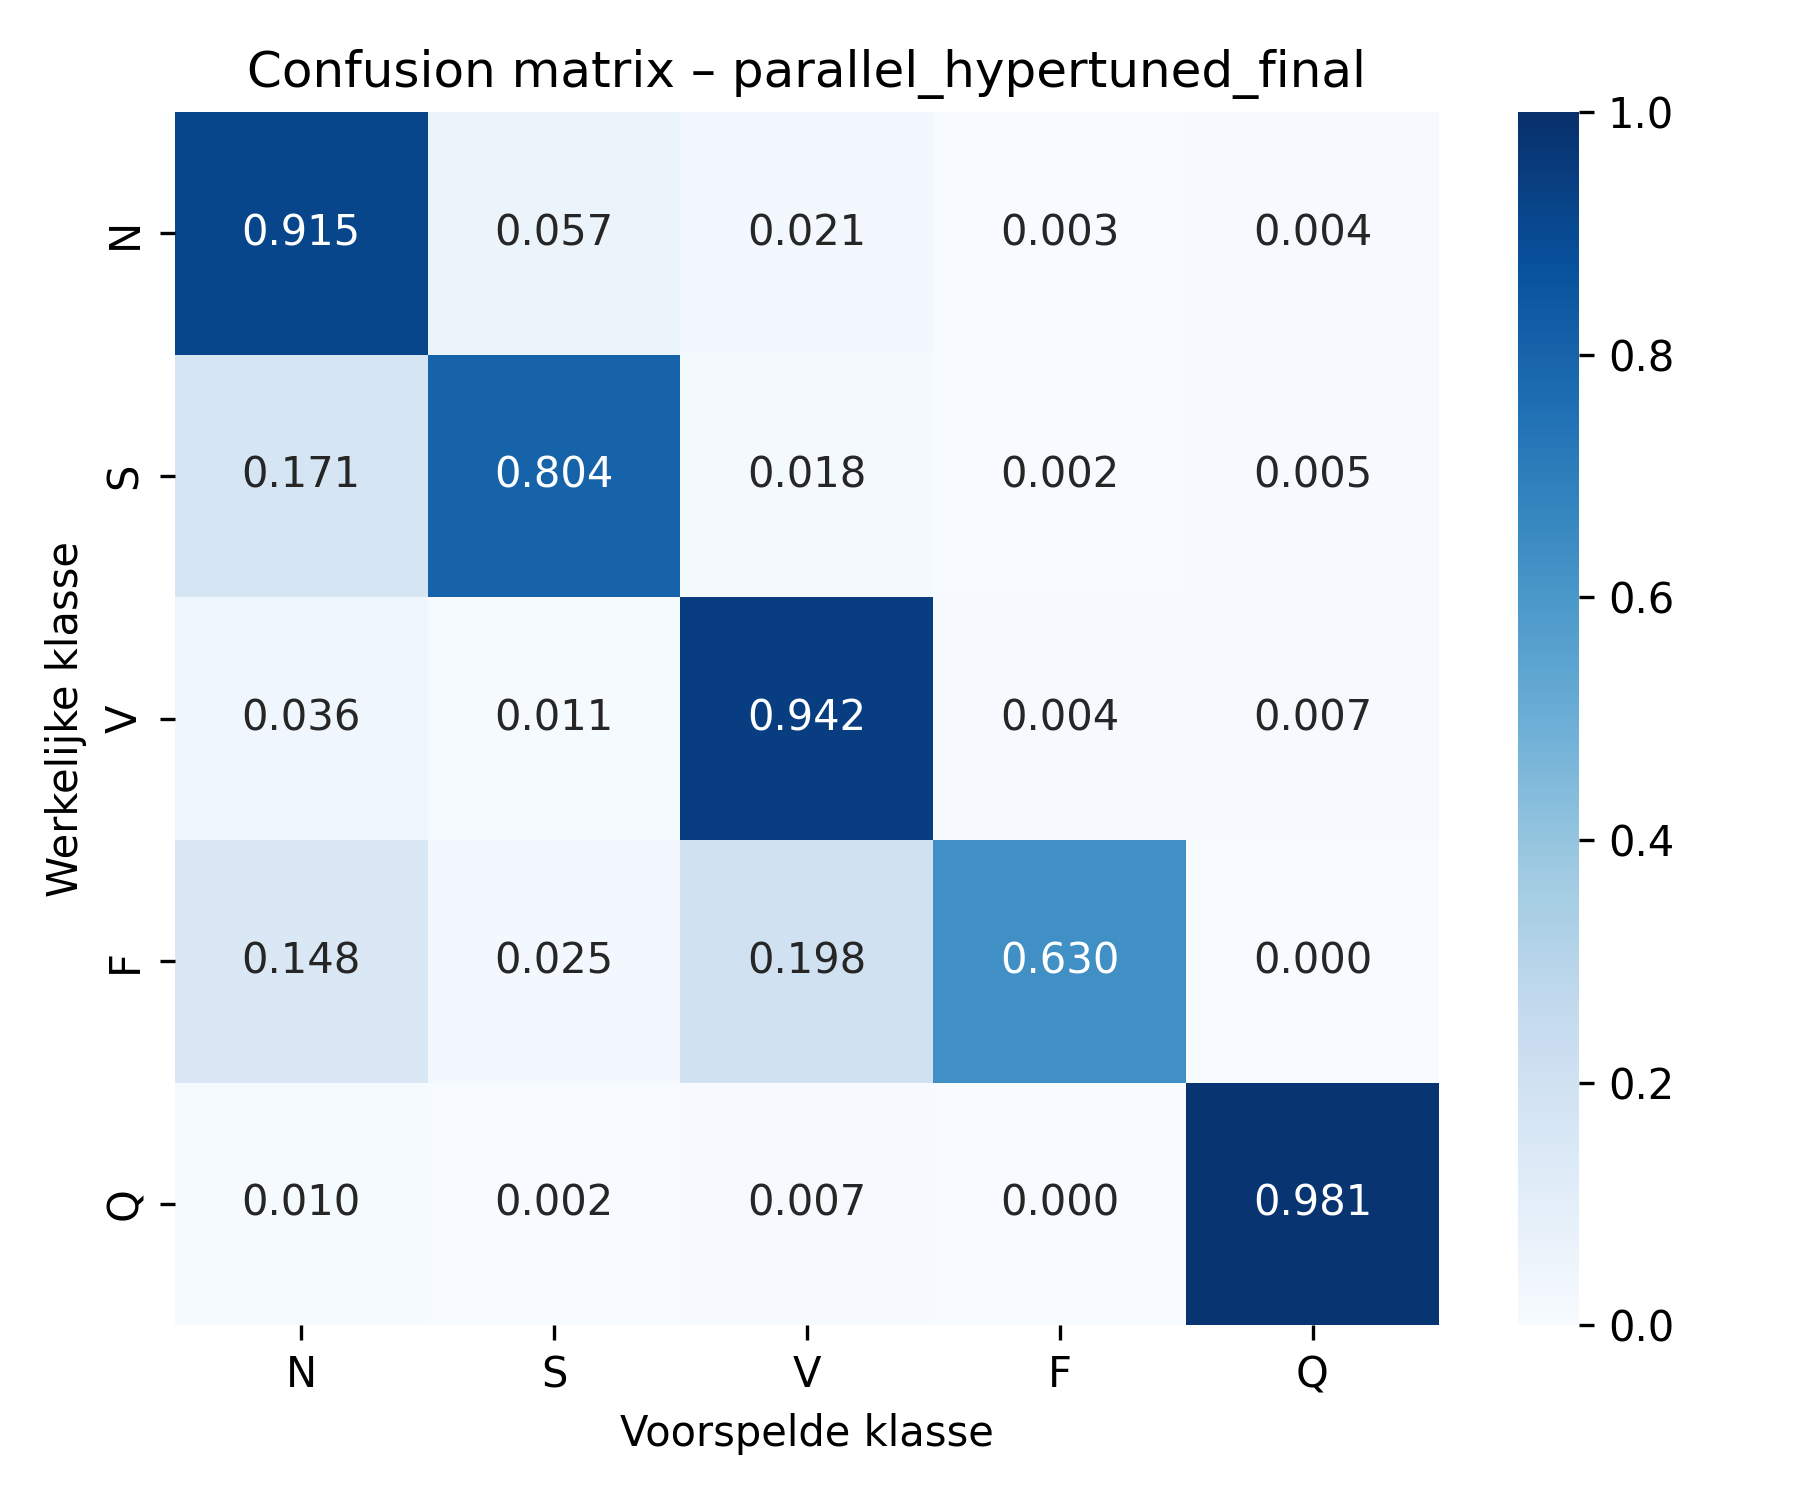
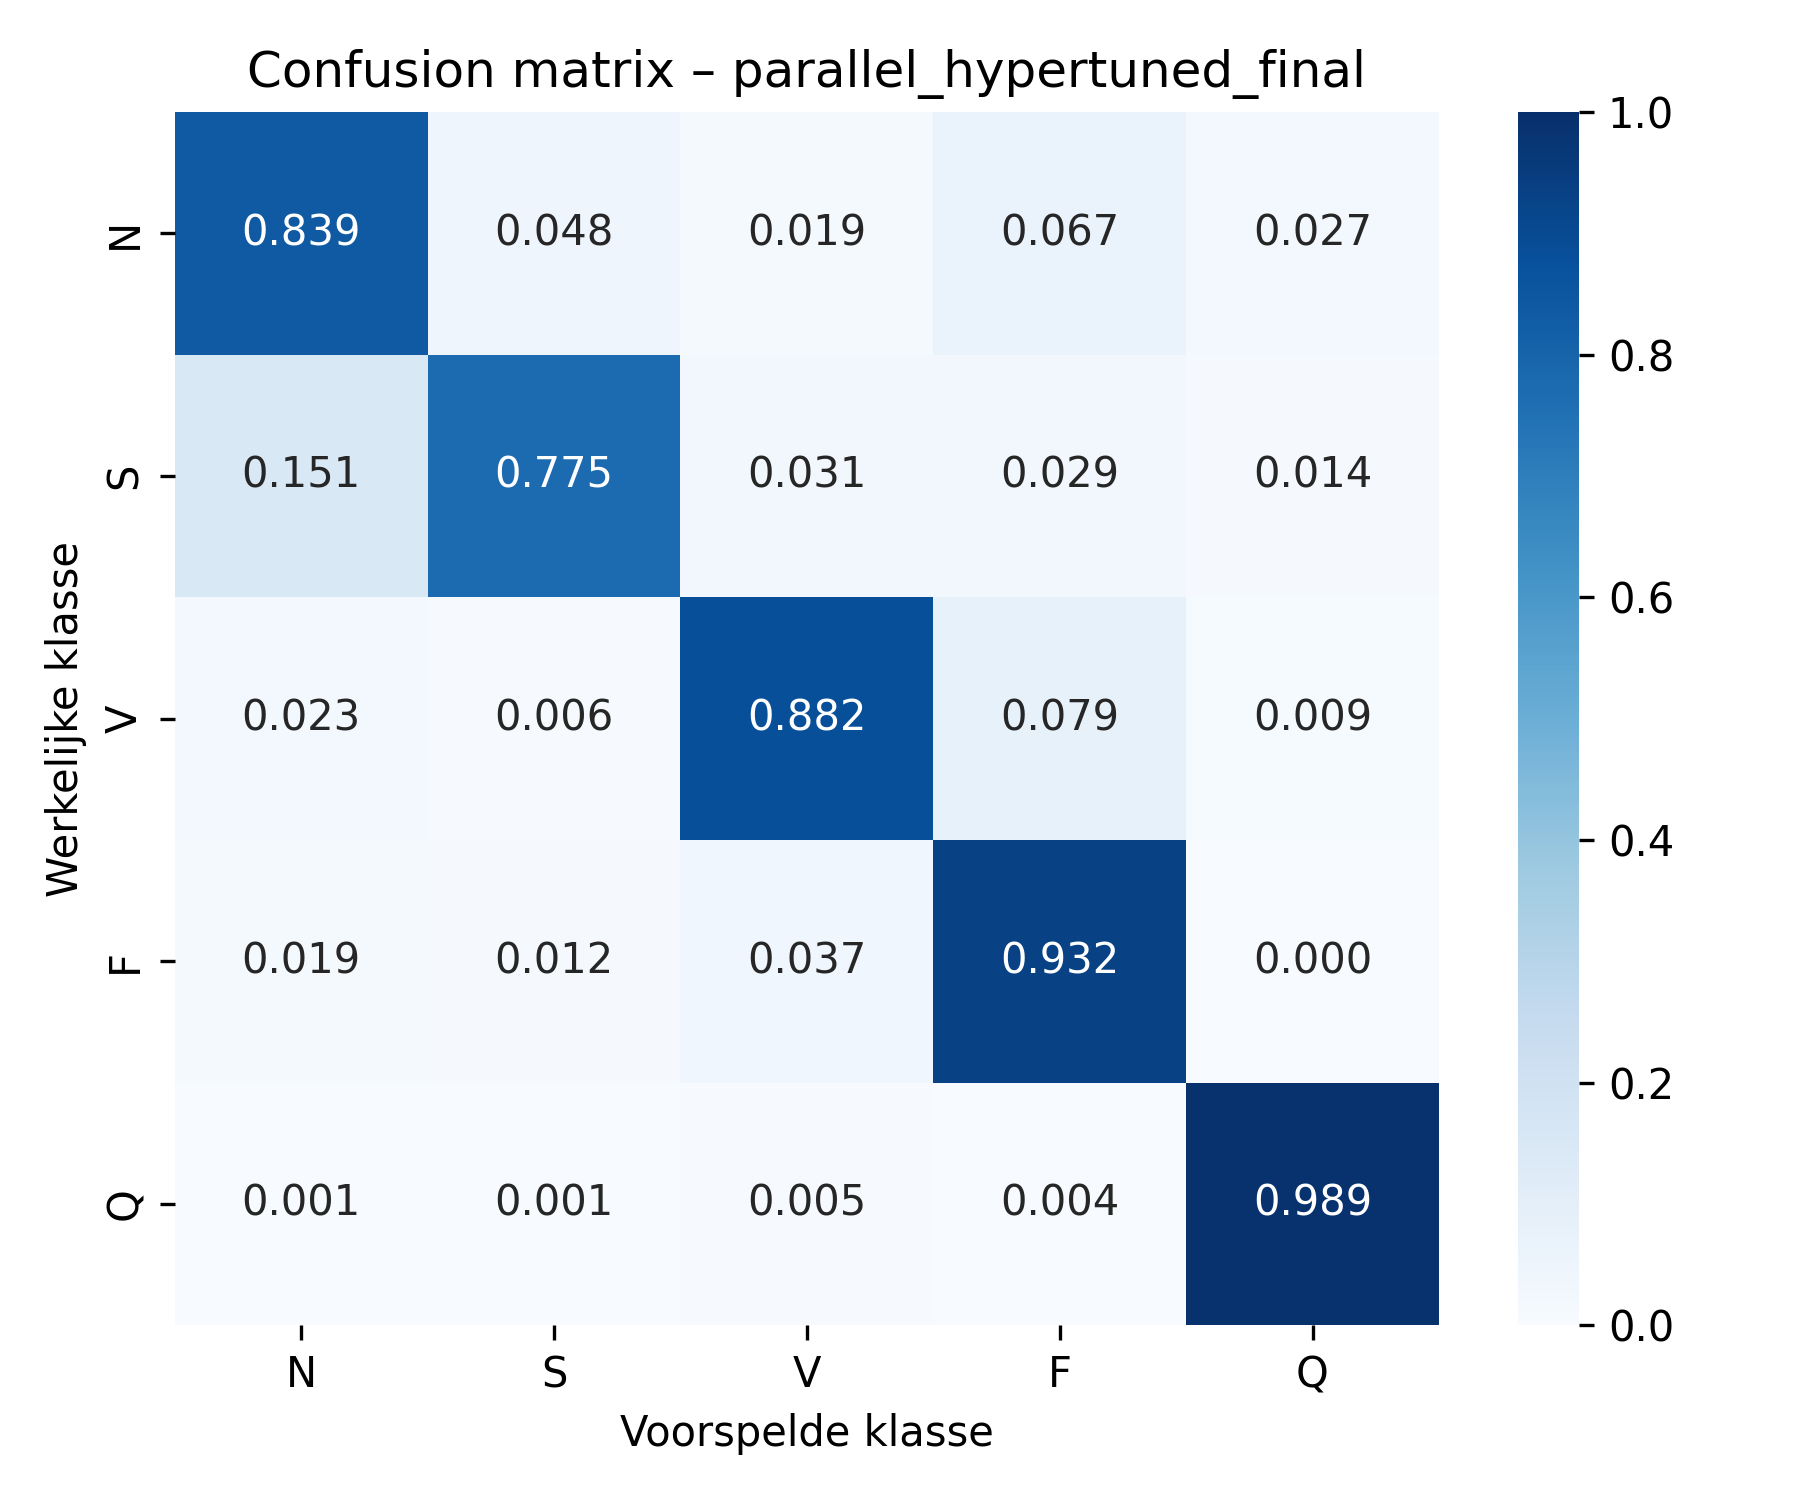
new raytune reults and train final model

diff --git a/src/helpers.py b/src/helpers.py
@@ -51,11 +51,11 @@ def run_experiment(
             "lr": learning_rate,
             "weight_decay": weight_decay,
         },
-        earlystop_kwargs={
-            "save": False,
-            "verbose": True,
-            "patience": 3,
-        },
+        # earlystop_kwargs={
+        #     "save": True,
+        #     "verbose": True,
+        #     "patience": 3,
+        # },
     )
 
     trainer = Trainer(
@@ -159,9 +159,13 @@ def save_result(result: dict[str, Any], filename: str | Path) -> None:
 
     if filename.exists() and filename.stat().st_size > 0:
         df = pd.read_csv(filename)
-
-        # Oude resultaten van dit experiment verwijderen.
-        df = df[df["Experiment"] != result["Experiment"]]
+        # Alleen een eerdere run met dezelfde seed vervangen.
+        df = df[
+            ~(
+                (df["Experiment"] == result["Experiment"])
+                & (df["Seed"] == result["Seed"])
+            )
+        ]
 
         nieuwe_rij = pd.concat([df, nieuwe_rij], ignore_index=True)
 

diff --git a/README.md b/README.md
@@ -25,8 +25,6 @@ De meegeleverde `heart_big_train.parq` wordt met een vaste seed **stratified** o
 
 Dit voorkomt dat de testset invloed heeft op hyperparameterselectie.
 
-> Let op: uit alleen deze lokale parquetbestanden/code kan niet worden vastgesteld of de oorspronkelijke train/test-splitsing patiëntonafhankelijk is. Dat moet uit de datasetdocumentatie worden geverifieerd. Dit is ook in het verslag beschreven.
-
 ## Installatie
 
 Dit project gebruikt Python 3.12 en `uv`.
